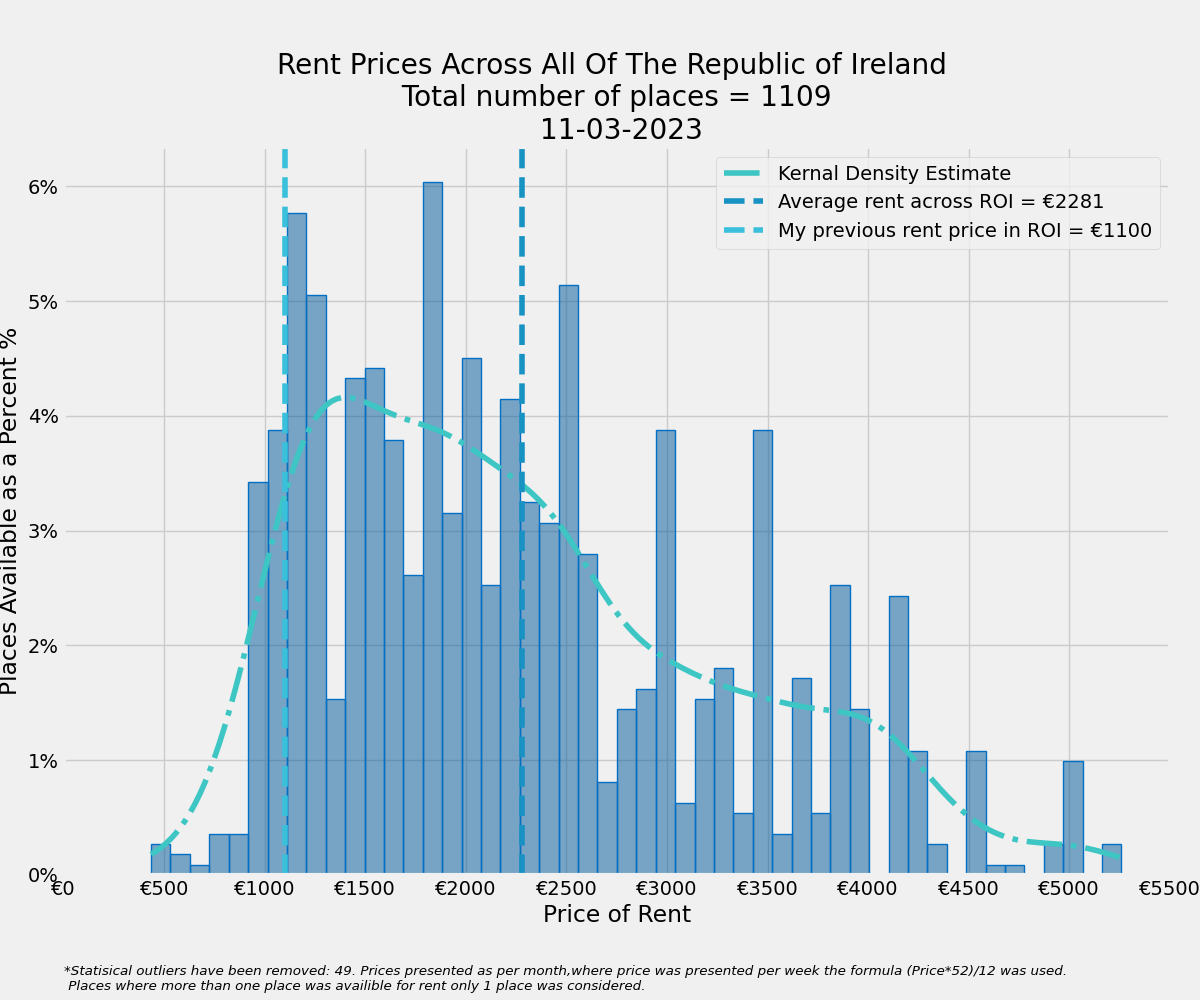
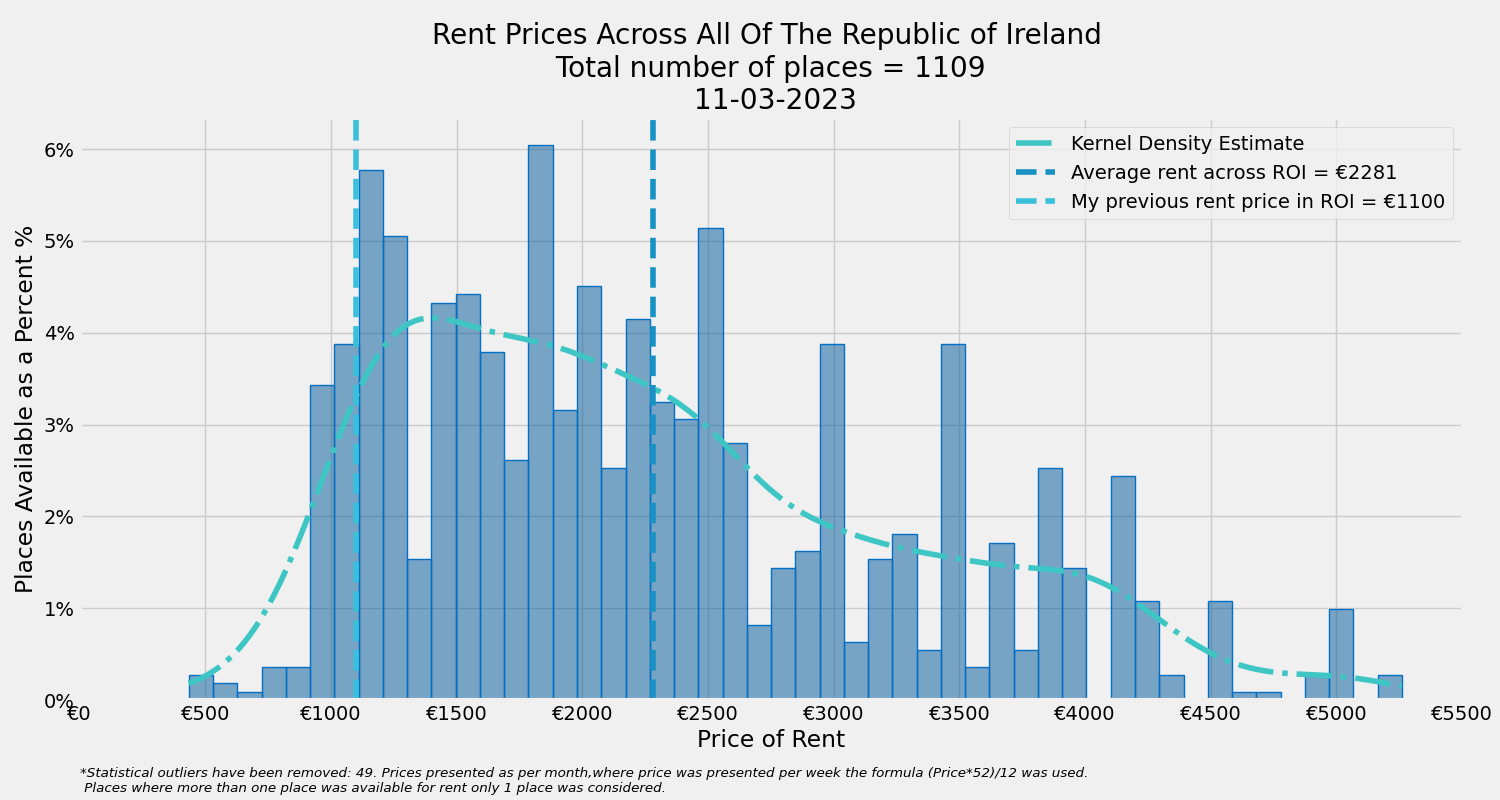
Update

diff --git a/Daft_Non_Sharing_Rent.py b/Daft_Non_Sharing_Rent.py
@@ -6,7 +6,6 @@ from scipy.stats import norm
 import datetime
 import seaborn as sb
 
-
 # Import data
 df = pd.read_csv('test.csv', sep=' ', header=None)
 
@@ -31,6 +30,7 @@ for i in rent_price_list_ordered:
     else:
         rent_price_master.append(int(i))
 
+
 # Remove Outliers Function
 def RemoveOutliers(nums, outlierConstant):
     ary = np.array(nums)
@@ -44,6 +44,7 @@ def RemoveOutliers(nums, outlierConstant):
             resultList.append(y)
     return resultList
 
+
 # Remove Outliers
 rent_price = RemoveOutliers(rent_price_master, 1.5)
 
@@ -51,7 +52,7 @@ rent_price = RemoveOutliers(rent_price_master, 1.5)
 mean = np.mean(rent_price)
 sd = np.std(rent_price)
 
-# Create comparible sample
+# Create comparable sample
 sample = normal(loc=2280, scale=990, size=len(rent_price))
 sample = abs(sample)
 sample_mean = np.mean(sample)
@@ -61,7 +62,7 @@ sample.sort()
 # Find distance
 dist = norm(sample_mean, samples_sd)
 
-# Create Probablity Curve
+# Create Probability Curve
 values = [value for value in range(int(min(sample)), int(max(sample)))]
 probabilities = [dist.pdf(value) for value in values]
 
@@ -75,9 +76,9 @@ date = datetime.datetime.now().strftime("%d-%m-%Y")
 xtick = []
 xlabel = []
 number = 0
-while number <=5500:
+while number <= 5500:
     xtick.append(number)
-    xlabel.append('€'+str(number))
+    xlabel.append('€' + str(number))
     number += 500
 
 # labeling Y axis
@@ -86,23 +87,23 @@ ylabel = []
 percent = 0
 while percent <= 6:
     ytick.append(percent)
-    ylabel.append(str(percent)+'%')
-    percent +=1
+    ylabel.append(str(percent) + '%')
+    percent += 1
 
-plt.rcParams['figure.figsize'] = (12, 10)
+# Create and style plot
+plt.rcParams['figure.figsize'] = (15, 8)
 
-# Create plot
 with plt.style.context('fivethirtyeight'):
     ax = sb.histplot(rent_price,
-                bins=50,
-                color=colours[0],
-                stat='percent',
-                kde=True,
-                edgecolor=colours[1],
-                linewidth=1,)
+                     bins=50,
+                     color=colours[0],
+                     stat='percent',
+                     kde=True,
+                     edgecolor=colours[1],
+                     linewidth=1, )
     ax.lines[0].set_color(colours[4])
     ax.lines[0].set_linestyle('dashdot')
-    ax.lines[0].set_label('Kernal Density Estimate')
+    ax.lines[0].set_label('Kernel Density Estimate')
     plt.axvline(round(mean),
                 label='Average rent across ROI = €' + str(round(mean)),
                 c=colours[2],
@@ -112,18 +113,18 @@ with plt.style.context('fivethirtyeight'):
                 linestyle="--")
     plt.title('Rent Prices Across All Of The Republic of Ireland \n Total number of places = ' +
               str(len(rent_price)) + ' \n ' + str(date))
-    plt.xticks(xtick,labels=xlabel)
-    plt.yticks(ytick,ylabel)
+    plt.xticks(xtick, labels=xlabel)
+    plt.yticks(ytick, ylabel)
     plt.xlabel('Price of Rent')
     plt.ylabel('Places Available as a Percent %')
-    kwargs = {'fontstyle':'italic','fontsize':'x-small'}
+    kwargs = {'fontstyle': 'italic', 'fontsize': 'x-small'}
     plt.text(x=1, y=-1,
-             s='*Statisical outliers have been removed: '+ str(len(list_of_rent_prices)-len(rent_price)) + ''
-                '. Prices presented as per month,where price was presented per week the '
-                'formula (Price*52)/12 was used. \n Places where more than one place was availible for rent only 1 place '
-                'was considered.',
+             s='*Statistical outliers have been removed: ' + str(len(list_of_rent_prices) - len(rent_price)) + ''
+              '. Prices presented as per month,where price was presented per week the '
+              'formula (Price*52)/12 was used. \n Places where more than one place was available for rent only 1 place '
+              'was considered.',
              **kwargs)
     plt.subplots_adjust(left=0.053, bottom=0.125, right=0.975, top=0.853, wspace=0.19, hspace=0.337)
     plt.legend()
-    plt.savefig(fname='Rent Price Histogram.png',format='png',dpi=100)
+    plt.savefig(fname='Rent Price Histogram.png', format='png', dpi=100)
 print('Process Complete :)')
